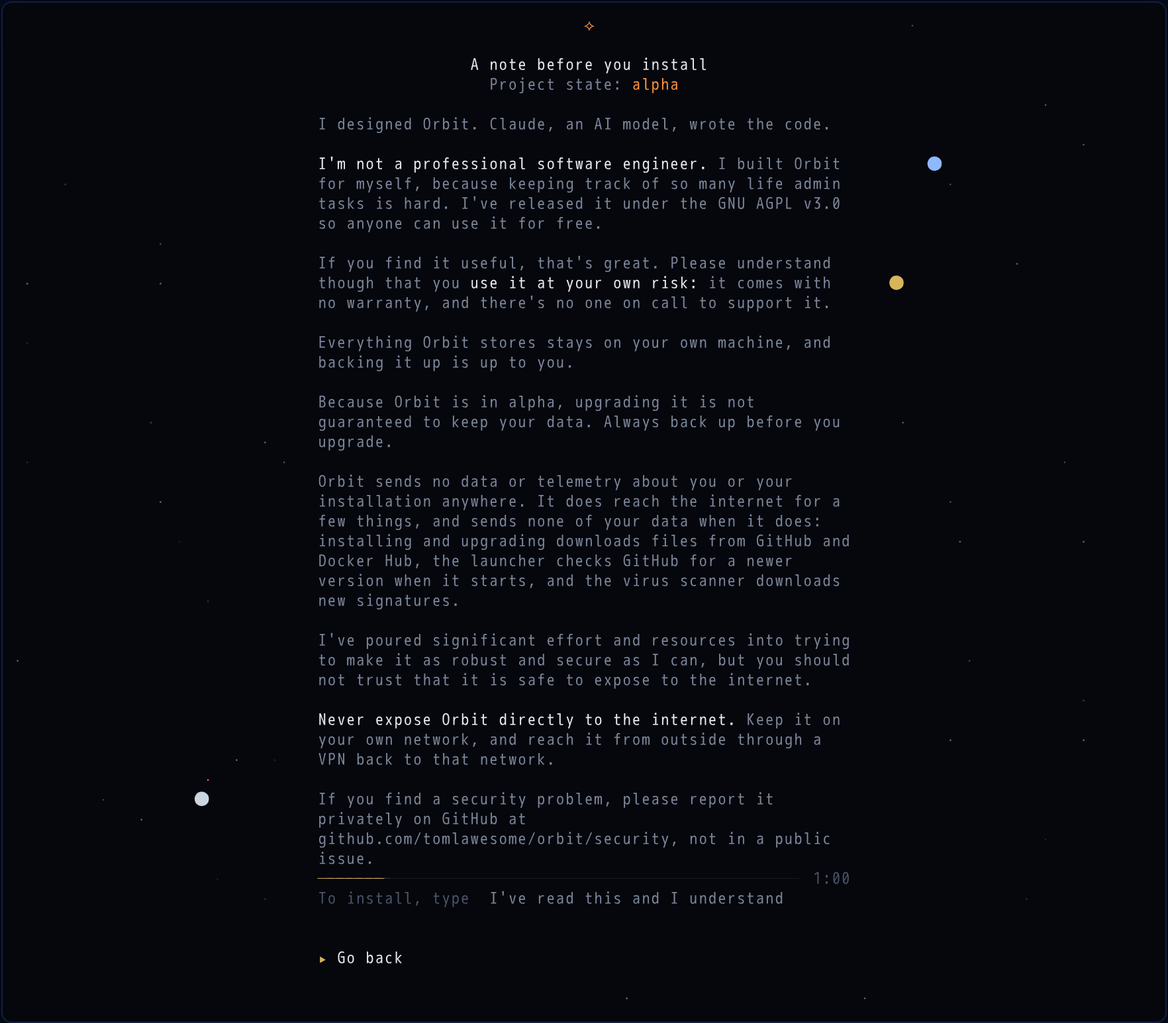
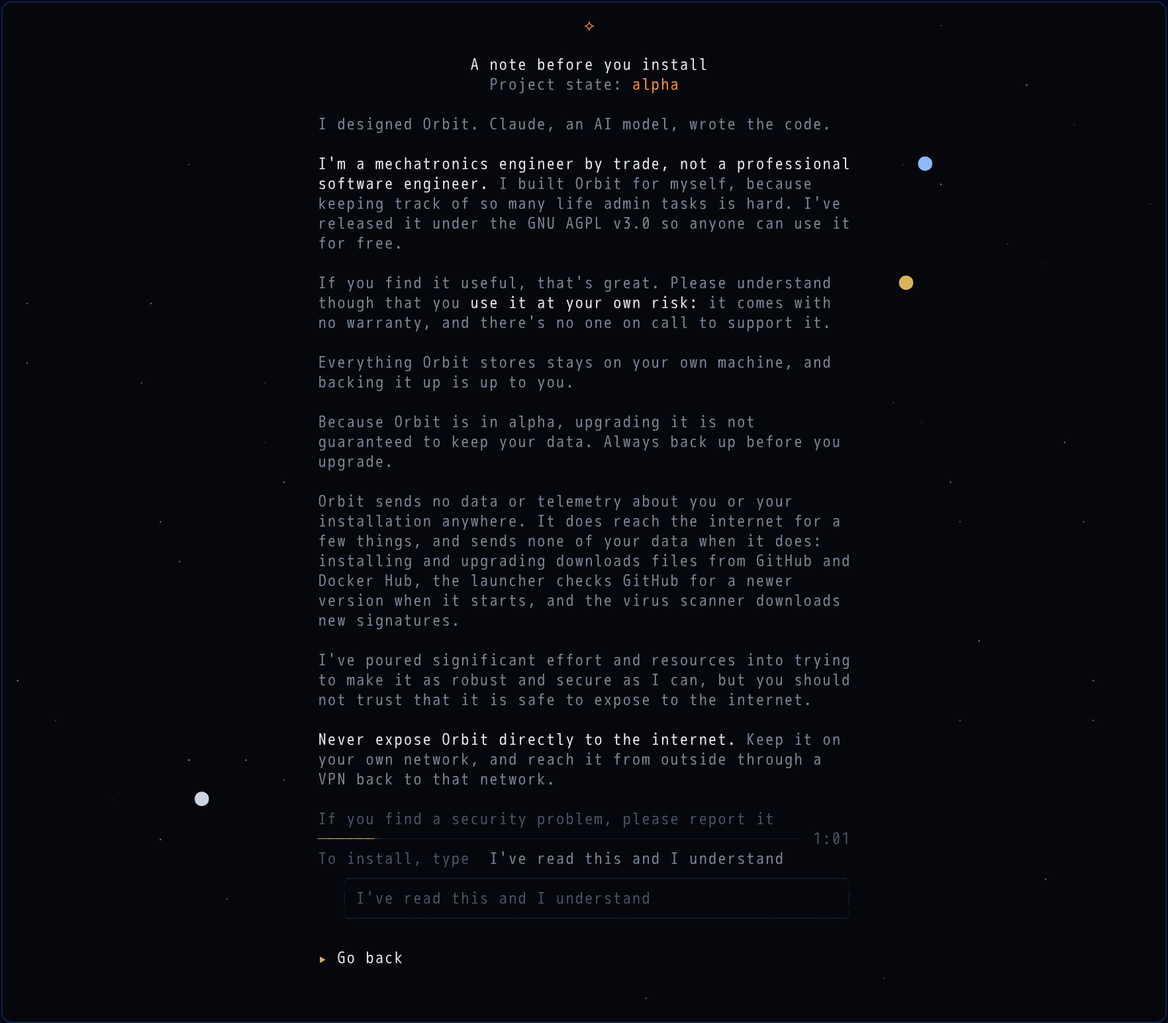
docs(design): notice mockup — boxed phrase entry, reworded second paragraph, owner's refusal line (#175)

diff --git a/design/mockups-v7-notice.html b/design/mockups-v7-notice.html
@@ -40,8 +40,8 @@
 <div class="sub">
   One new screen in the Install flow: profile → confirm → <b>notice</b> → mission console.
   Three things gate the install: the prose has been on screen to its last line, a 70-second timer has run
-  out, and the person has typed <b>I've read this and I understand</b>. The timer, the typed field and Go
-  back are pinned in view from the first frame; only the prose scrolls. Copy is the owner's approved final
+  out, and the person has typed <b>I've read this and I understand</b> into a text box. The timer, the
+  box and Go back are pinned in view from the first frame; only the prose scrolls. Copy is the owner's approved final
   text, verbatim. Cell-truth renders, colours from <code>internal/ui/style/style.go</code>, every glyph one
   the app already draws. The sky and the countdown animate as the app would (10 fps, whole-cell steps);
   both stop under <code>prefers-reduced-motion</code>. Nothing else here is approved yet.
@@ -53,11 +53,12 @@
 <section>
   <h2><span>a</span> First view — 80×26, the house minimum</h2>
   <div class="term scene" id="scene-a"><pre class="cells" id="n-a" role="img"
-    aria-label="Notice screen at 80 by 26 cells: amber orbit mark, bold title A note before you install, Project state alpha, then the first fourteen rows of prose with the emphasised phrase I'm not a professional software engineer in bold; the last visible row is faint and cut mid-sentence. Pinned beneath: a thin timer line just starting to fill gold with 1:08 at its end, a faint prompt To install, type I've read this and I understand, an empty row where the field will wake, and the caret on Go back."></pre></div>
-  <div class="cap">Header and the bottom region (timer, prompt, field, Go back) are pinned; only the prose
-    between them scrolls — here fourteen of its thirty-eight rows. The last visible prose row steps
-    down to faint and is cut mid-sentence: the sign there is more. The countdown is already running;
-    the prompt is faint and the field row empty — not yet awake; Go back carries the caret.</div>
+    aria-label="Notice screen at 80 by 26 cells: amber orbit mark, bold title A note before you install, Project state alpha, then the first fourteen rows of prose with the emphasised sentence I'm a mechatronics engineer by trade, not a professional software engineer in bold across two rows; the last visible row is faint and cut mid-sentence. Pinned beneath: a thin timer line just starting to fill gold with 1:08 at its end, a faint prompt To install, type I've read this and I understand, a rounded text box drawn in the console frame's quiet border with the same phrase inside it as example text, and the caret on Go back."></pre></div>
+  <div class="cap">Header and the bottom region (timer, prompt, text box, Go back) are pinned; only the
+    prose between them scrolls — here twelve of its thirty-nine rows. The last visible prose row
+    steps down to faint and is cut mid-sentence: the sign there is more. The countdown is already
+    running; the prompt is faint, the box's border is the console frame's quiet colour and the
+    example phrase sits inside the box — asleep; Go back carries the caret.</div>
 </section>
 
 <section>
@@ -72,27 +73,30 @@
 <section>
   <h2><span>f</span> End reached, timer still running</h2>
   <div class="term scene" id="scene-f"><pre class="cells" id="n-f" role="img"
-    aria-label="Scrolled to the end: no faint row at the bottom, the security paragraph fully in view; the timer line is about four fifths gold with the seconds left at its end; the prompt is still faint and the field row empty; the caret on Go back. The countdown animates to zero, then the line disappears, the prompt brightens and the field shows a gold caret and cursor."></pre></div>
+    aria-label="Scrolled to the end: no faint row at the bottom, the security paragraph fully in view; the timer line is about four fifths gold with the seconds left at its end; the prompt is still faint and the box asleep; the caret on Go back. The countdown animates to zero, then the line disappears, the prompt and the box's border brighten a step."></pre></div>
   <div class="cap">A fast scroller: the prose has reached its last line, so the bottom fade is gone, but
-    the timer is still running and the field is still asleep. At 0:00 the line goes blank, the prompt
-    brightens and the field wakes with its gold caret and cursor. (Animates here; loops.)</div>
+    the timer is still running and the box is still asleep. At 0:00 the line goes blank and the
+    prompt and border brighten a step: awake. The cursor arrives only when typing claims the box.
+    (Animates here; loops.)</div>
 </section>
 
 <section>
   <h2><span>c</span> Both gates passed — typing the phrase</h2>
   <div class="term scene" id="scene-c"><pre class="cells" id="n-c" role="img"
-    aria-label="Timer row blank; prompt bright: To install, type I've read this and I understand; the field row shows a gold caret, the partly typed text I've read th and a gold cursor; Go back muted beneath."></pre></div>
-  <div class="cap">The field is awake: gold <kbd>▸</kbd>, typed text in bright ink, gold <kbd>▏</kbd>
-    cursor — the configure screen's own field. Typing a letter is what moved the caret off Go back.
+    aria-label="Timer row blank; prompt bright: To install, type I've read this and I understand; the text box has the gold caret at its left, the partly typed text I've read th inside and a gold cursor after it; the example text is gone; Go back muted beneath."></pre></div>
+  <div class="cap">The box is focused: gold <kbd>▸</kbd> at its left, typed text in bright ink with the
+    gold <kbd>▏</kbd> cursor after it — the configure screen's field, boxed.
+    The example phrase vanished on the first keypress; the prompt above still shows it.
     <kbd>↑</kbd> <kbd>PgUp</kbd> and the wheel still scroll the prose while typing.</div>
 </section>
 
 <section>
   <h2><span>g</span> Wrong phrase, after Enter</h2>
   <div class="term scene" id="scene-g"><pre class="cells" id="n-g" role="img"
-    aria-label="Field shows I read this and I understand with the cursor still at its end; beneath it an amber line reads That isn't the phrase yet, type it exactly as shown; Go back muted beneath."></pre></div>
-  <div class="cap">A word is missing ("read" for "I've read"), so <kbd>↵</kbd> is refused in amber, in
-    the row that is otherwise the gap. The typed text stays for fixing; the next keystroke clears the
+    aria-label="The box shows I read this and I understand with the cursor still at its end; directly beneath the box an amber line reads Please type the phrase as shown above; the prompt above the box still shows the phrase; Go back muted beneath."></pre></div>
+  <div class="cap">A word is missing ("read" for "I've read"), so <kbd>↵</kbd> is refused in amber on the
+    row directly under the box, aligned with its text — the row that is otherwise the gap. "As shown
+    above" points at the prompt line, which always carries the phrase. The typed text stays for fixing; the next keystroke clears the
     message. "I have read this and I understand", a missing or curly apostrophe, any capitals, a
     trailing full stop or spaces would all have passed (owner rulings: capitals and apostrophes
     don't matter, "I have" equals "I've", other words do matter).</div>
@@ -101,19 +105,19 @@
 <section>
   <h2><span>d</span> Go back selected</h2>
   <div class="term scene" id="scene-d"><pre class="cells" id="n-d" role="img"
-    aria-label="Both gates passed, the field awake but empty and without a cursor, the caret on Go back."></pre></div>
-  <div class="cap">Where the caret rests until the person types. <kbd>↓</kbd> from the field returns
-    here; <kbd>↵</kbd> goes back to Ready to install, exactly as <kbd>esc</kbd> does at any moment.</div>
+    aria-label="Both gates passed, the box awake with the example text inside and no cursor, the caret on Go back."></pre></div>
+  <div class="cap">Where the caret rests until the person types: the box is awake but not focused, so the
+    example phrase stays and there is no cursor. <kbd>↓</kbd> from the box returns here; <kbd>↵</kbd> goes back to Ready to install, exactly as <kbd>esc</kbd> does at any moment.</div>
 </section>
 
 <section>
-  <h2><span>e</span> A tall terminal — 120×50, everything just fits</h2>
+  <h2><span>e</span> A tall terminal — 120×50, three rows short</h2>
   <div class="term scene" id="scene-e"><pre class="cells" id="n-e" role="img"
-    aria-label="Notice at 120 by 50 cells on arrival: the whole block fills the frame top to bottom, no faint rows, the timer line just starting at 1:10, faint prompt, empty field row, caret on Go back. The countdown animates to zero here, then the field wakes."></pre></div>
-  <div class="cap">Thirty-eight rows of prose in a thirty-eight-row viewport: it fits with no row to spare,
-    so the block fills the frame and nothing scrolls. One row shorter and the last line would hang faint
-    below the edge like scene a — the same screen, the same cue. The timer is the only wait here.
-    (Animates from 1:10; loops.)</div>
+    aria-label="Notice at 120 by 50 cells on arrival: the block fills the frame top to bottom; the last three rows of prose hang below the edge, so the last visible row is faint; the timer line just starting at 1:10, faint prompt, the sleeping text box with its example text, caret on Go back. The countdown animates to zero here; the box wakes only once the last line has been scrolled in."></pre></div>
+  <div class="cap">Thirty-nine rows of prose in a thirty-six-row viewport: the security paragraph's tail
+    hangs below the edge and the row above it goes faint — the same screen and the same cue as
+    80×26, three <kbd>↓</kbd> deep. At 120×53 it would fit exactly. The box wakes only once that line
+    has been seen and the timer is out. (Animates from 1:10; loops.)</div>
 </section>
 
 </div>
@@ -136,12 +140,15 @@
 
   <h3>2 · The bottom region and its states</h3>
   <p>Pinned at the bottom of the frame, in view from the first frame at every size: the timer row,
-    the prompt, the field, a feedback row (usually blank: the gap) and Go back. Only the prose
-    between the header and them scrolls. Go back takes the caret from the start, so the way out is
-    visible before anything is read. The field has two states: <b>asleep</b> while either gate is
-    open (prompt faint, field row empty, letters ignored) and <b>awake</b> once both are passed
-    (prompt brightens, the gold caret and cursor appear). Nothing moves on its own when it wakes:
-    the caret stays on Go back until the person types. In the view this is still one content block
+    the prompt, the three-row text box, a feedback row (usually blank: the gap) and Go back. Only the
+    prose between the header and them scrolls. Go back takes the caret from the start, so the way
+    out is visible before anything is read. The box has three states: <b>asleep</b> while either
+    gate is open (prompt faint, border in <code>Border</code>, example phrase inside, letters
+    ignored), <b>awake</b> once both are passed (prompt and border one step brighter, example still
+    inside, no cursor) and <b>focused</b> once typing claims it (gold caret at its left, the example
+    gone, cursor after the text; the border stays as awake — the caret and cursor are the focus
+    signal, as on every other screen). Nothing moves on its own when it wakes: the
+    caret stays on Go back until the person types. In the view this is still one content block
     handed to the same centring as every screen; the "pinning" is only that the first and last rows
     never scroll.</p>
 
@@ -155,10 +162,10 @@
   <p><kbd>PgDn</kbd> <kbd>space</kbd>-before-the-field-wakes, <kbd>PgUp</kbd>, <kbd>Home</kbd>
     <kbd>End</kbd> and the wheel (three rows a notch, mouse reporting on for this view only) always
     scroll the prose; a page is the viewport less one row, so the last line read is the first line
-    seen. <kbd>↓</kbd> <kbd>↑</kbd> scroll it too, except that <kbd>↓</kbd> from the awake field
-    steps the caret onto Go back, and <kbd>↑</kbd> from Go back steps it into the awake field — the
-    caret walks the page: prose, then field, then Go back. Letters and <kbd>space</kbd> go to the
-    field whenever it is awake, wherever the caret is; typing is what claims it. The field has no
+    seen. <kbd>↓</kbd> <kbd>↑</kbd> scroll it too, except that <kbd>↓</kbd> from the focused box
+    steps the caret onto Go back, and <kbd>↑</kbd> from Go back steps it into the awake box — the
+    caret walks the page: prose, then box, then Go back. Letters and <kbd>space</kbd> go to the
+    box whenever it is awake, wherever the caret is; typing is what claims it. The box has no
     cursor movement, so <kbd>Home</kbd> <kbd>End</kbd> stay with the prose, and <kbd>backspace</kbd>
     trims — the configure screen's field works the same way. <b><kbd>↵</kbd></b> on Go back goes
     back; in the field it submits (see 8); a quick triple <kbd>↵</kbd> from the confirm screen lands
@@ -166,22 +173,23 @@
     one step, to Ready to install, the same step the confirm screen's own <kbd>esc</kbd> takes.</p>
 
   <h3>5 · 80×26, and tall</h3>
-  <p>The approved copy wraps to <b>thirty-eight rows</b> at the 56-column measure (nine paragraphs,
+  <p>The approved copy wraps to <b>thirty-nine rows</b> at the 56-column measure (nine paragraphs,
     eight gaps). At 80×26 the header (blank, ⟡, blank, title, state, blank) takes six rows and the
-    bottom region (timer, prompt, field, feedback, Go back, blank) six, leaving a fourteen-row
-    viewport: <b>twenty-four rows hang below the edge</b> — two <kbd>PgDn</kbd>, or one
-    <kbd>End</kbd>, to reach the last line. "The end" is the prose's last line having been on screen.
-    (At 80×24, a common default, the viewport is twelve rows.) At the minimum size the block fills
+    bottom region (timer, prompt, the box's three rows, feedback, Go back, blank) eight — the box
+    costs two rows more than a bare field — leaving a twelve-row viewport: <b>twenty-seven rows hang
+    below the edge</b> — three <kbd>PgDn</kbd>, or one <kbd>End</kbd>, to reach the last line. "The
+    end" is the prose's last line having been on screen. (At 80×24, a common default, the viewport is
+    ten rows.) At the minimum size the block fills
     the frame top to bottom, so the 0.42 placement collapses to zero — there is no spare room, and
-    none is needed. At 120×50 the viewport is thirty-eight rows: <b>it fits exactly</b>, with no row
-    to spare, so the block fills that frame too and nothing scrolls; at 120×49 the last line hangs
-    faint below the edge and one <kbd>↓</kbd> shows it — the same screen, no special case. The scroll
+    none is needed. At 120×50 the viewport is thirty-six rows, <b>three short</b>: the tail of the
+    last paragraph hangs faint below the edge and three <kbd>↓</kbd> (or one page) show it — the
+    same screen, no special case; at 120×53 it fits exactly and nothing scrolls. The scroll
     requirement is "the whole notice has been on screen", not "a scroll happened".</p>
 
   <h3>6 · The timer</h3>
-  <p><b>70 seconds.</b> The approved copy is 257 words (title and state line included, since they
+  <p><b>70 seconds.</b> The approved copy is 262 words (title and state line included, since they
     are read too); at 238 words a minute (Brysbaert 2019, average adult silent reading) that is
-    64.8 s. Rounded <b>up</b> to the next ten, as before: up because the average is the midpoint and
+    66.0 s. Rounded <b>up</b> to the next ten, as before: up because the average is the midpoint and
     half of readers are slower; to a round number because 1:05 looks computed and 1:10 looks chosen.
     It starts when the screen appears, not on a key. <b>Look:</b> one row, directly under the prose —
     a thin line of <code>─</code> cells filling gold over the <code>BorderSoft</code> track (the
@@ -194,8 +202,10 @@
     vanishes while they are still reading and the field wakes the moment the last line scrolls in.</p>
 
   <h3>7 · Emphasis (owner, 2026-10-03)</h3>
-  <p>Three phrases, wording untouched: "I'm not a professional software engineer", "use it at your own
-    risk", "Never expose Orbit directly to the internet". Drawn <b>bold, one ink step up from the row
+  <p>Three phrases, wording untouched: the whole sentence "I'm a mechatronics engineer by trade, not
+    a professional software engineer." (owner, 2026-10-04), "use it at your own risk", "Never expose
+    Orbit directly to the internet". A phrase may break across rows — the first one does at this
+    measure — and each word carries the emphasis with it. Drawn <b>bold, one ink step up from the row
     they sit in</b>: bold <code>Text</code> on a normal (muted) row — the style every flow screen's
     title already uses — and bold <code>TextMuted</code> on a faded row, so the phrase steps down
     with its row and still stands one step above it. Whole cells, two existing tokens, no new colour:
@@ -204,23 +214,35 @@
     carry no emphasis; the owner chose three phrases and three is what makes them stand out.</p>
 
   <h3>8 · The typed confirmation (owner, 2026-10-03)</h3>
-  <p><b>Look:</b> the configure screen's field, unchanged — gold <code>▸</code>, the typed text in
-    <code>Text</code>, a gold <code>▏</code> cursor, and a refusal in amber <code>DegradedText</code>
-    on the row beneath, exactly as <code>viewConfigCollect</code> draws a reason. Above it one prompt
-    row, <code>To install, type</code> in muted ink and the phrase itself in bright ink, so the thing
-    to type is unmistakable without quotes. That is the question, not a key hint, so the house rule
-    allows it. <b>Asleep until both gates pass</b>, then awake: typing takes five seconds against a
-    seventy-second wait, a field that accepts letters it cannot yet submit invites a puzzled wait, and
-    waking is the "something changed" the person is watching for. <b>What matches</b> (owner rulings,
+  <p><b>Look</b> (owner, 2026-10-04: a visible text box): a 54-cell rounded box drawn with the
+    console frame's own glyphs <code>╭─╮│╰╯</code>, one cell of padding inside, sitting two cells in
+    from the block's edge so the gold <code>▸</code> lands in the same column as Go back's. Its
+    border uses two existing tokens: <code>Border</code> asleep — the console frame's own colour,
+    quiet but a box — and <code>TextFaint</code> awake, one step up. (<code>BorderSoft</code>, the
+    timer track's colour, was tried for the asleep state and all but vanished on the background; a
+    box the owner asked to be visible cannot start invisible.) No new colour. Inside it the phrase as example text in <code>TextFaint</code>, there from
+    the first frame; it disappears on the first keypress and the typed text takes its place in
+    <code>Text</code>, with the gold <code>▏</code> cursor after it — the configure screen's field,
+    boxed. While the box is focused and still empty the cursor sits in the first cell and the
+    example starts in the next, so the first letter lands where the cursor is. Above the box the
+    approved prompt row, <code>To install, type</code> in muted ink and the phrase in bright ink:
+    <b>the phrase never leaves the screen</b>, which is what lets the refusal say "as shown above"
+    after the example inside the box has gone. The refusal, the owner's words <i>Please type the
+    phrase as shown above</i>, goes in amber <code>DegradedText</code> on the row directly under the
+    box, aligned with its text, exactly as <code>viewConfigCollect</code> draws a reason. The prompt
+    is the question, not a key hint, so the house rule allows it. <b>Asleep until both gates
+    pass</b>, then awake: typing takes five seconds against a seventy-second wait, a box that accepts
+    letters it cannot yet submit invites a puzzled wait, and waking is the "something changed" the
+    person is watching for. <b>What matches</b> (owner rulings,
     2026-10-03: capitals and apostrophes don't matter, "I have" equals "I've", words do matter): both
     sides are compared after lower-casing, removing every apostrophe-like mark (' ’ ‘ ´ `),
     collapsing runs of spaces to one, trimming the ends and dropping one trailing full stop; then they
     must be identical, except that after normalising, a leading "i have" counts as "ive". So
     "ive read this and i understand", "I'VE READ THIS AND I UNDERSTAND", "I have read this and I
     understand" and a curly ’ all pass; a missing or different word — "I read this and I
-    understand", "I've read it" — fails. <b><kbd>↵</kbd> on an empty field does nothing</b>; on a
-    partial or wrong phrase it shows <i>That isn't the phrase yet — type it exactly as shown</i> in
-    amber, keeps the typed text for fixing, and the next keystroke clears the message. No attempt
+    understand", "I've read it" — fails. <b><kbd>↵</kbd> on an empty box does nothing</b>; on a
+    partial or wrong phrase it shows <i>Please type the phrase as shown above</i> in amber, keeps the
+    typed text for fixing, and the next keystroke clears the message. No attempt
     counter: nothing is at stake in retrying. <b>Go back stays a visible row</b>: Esc needs no hint,
     but a visible way out is what every flow screen offers, and a text field with no neighbour would
     leave a stuck person with nothing to try but keys they cannot be told about.</p>
@@ -250,7 +272,14 @@
     · Fifth pass: the approved final copy, verbatim (nine paragraphs, 38 rows). Timer re-derived:
     257 words → 64.8 s → <b>70 s</b>, one bar cell per 1.4 s. 80×26 now hides 24 rows (two pages);
     120×50 fits exactly. New rule in 1 so the bottom cue never lands on a paragraph gap. Scene b is
-    now a page down rather than a row.</p>
+    now a page down rather than a row.<br>
+    · Sixth pass (2026-10-04): second paragraph reworded by the owner ("I'm a mechatronics engineer
+    by trade, not a professional software engineer."), emphasised in full as one sentence. 262 words
+    → 66.0 s, so 70 s stands. Now 39 rows.<br>
+    · Seventh pass (2026-10-04): the bare field is a drawn text box with the phrase inside as example
+    text (see 8); the prompt keeps the phrase so "as shown above" always holds; the refusal is the
+    owner's "Please type the phrase as shown above". Two rows dearer: the 80×26 viewport is twelve
+    rows and hides 27; 120×50 is three rows short and scrolls (scene e).</p>
 </aside>
 </div>
 
@@ -310,7 +339,7 @@ const TITLE="A note before you install";
 const STATE_LABEL="Project state: ", STATE_WORD="alpha";
 const PARAS=[
   "I designed Orbit. Claude, an AI model, wrote the code.",
-  "I'm not a professional software engineer. I built Orbit for myself, because keeping track of so many life admin tasks is hard. I've released it under the GNU AGPL v3.0 so anyone can use it for free.",
+  "I'm a mechatronics engineer by trade, not a professional software engineer. I built Orbit for myself, because keeping track of so many life admin tasks is hard. I've released it under the GNU AGPL v3.0 so anyone can use it for free.",
   "If you find it useful, that's great. Please understand though that you use it at your own risk: it comes with no warranty, and there's no one on call to support it.",
   "Everything Orbit stores stays on your own machine, and backing it up is up to you.",
   "Because Orbit is in alpha, upgrading it is not guaranteed to keep your data. Always back up before you upgrade.",
@@ -320,16 +349,18 @@ const PARAS=[
   "If you find a security problem, please report it privately on GitHub at github.com/tomlawesome/orbit/security, not in a public issue."
 ];
 // Owner-chosen emphasis (2026-10-03): three phrases, wording untouched.
-const EMPH=["I'm not a professional software engineer","use it at your own risk","Never expose Orbit directly to the internet"];
+const EMPH=["I'm a mechatronics engineer by trade, not a professional software engineer","use it at your own risk","Never expose Orbit directly to the internet"];
 // The typed confirmation (owner, 2026-10-03): phrase and prompt label both approved.
 const PHRASE="I've read this and I understand";
 const PROMPT_LABEL="To install, type  ";
-const REFUSAL="That isn't the phrase yet — type it exactly as shown";
+const REFUSAL="Please type the phrase as shown above";   // owner's words, 2026-10-04
 const GO_BACK="Go back";
 const MEASURE=56;
 const TIMER_S=70;          // 257 words / 238 wpm = 64.8 s, rounded up to the next ten
 const BAR_CELLS=MEASURE-6; // the line, then two spaces and m:ss — one cell per 1.4 s
 const GUTTER=2;            // every view line is padded to MEASURE+2*GUTTER; the sky stays outside
+const BOX_W=MEASURE-2;     // the text box: two cells in from the block's edge, so ▸ shares Go back's column
+const BORDER="#1c2434";    // style.Border — the console frame's colour
 
 // wrap: rows of segments {text, em}; markers bracket the emphasised phrases
 // before splitting so the flag rides with each word and never costs a cell
@@ -370,13 +401,14 @@ function clock(sec){const m=Math.floor(sec/60),s=sec%60;return m+":"+(s<10?"0":"
 // the screen appeared), run (animate the countdown from `elapsed`, looping).
 // The view is one content block: header (blank, ⟡, blank, title, state,
 // blank), the visible prose rows, then the bottom region (timer, prompt,
-// field, feedback, Go back, blank). Viewport = H - 12 rows; skyBlock's 0.42
-// optical centre positions the block when it is shorter than the screen.
+// box top, box middle, box bottom, feedback, Go back, blank). Viewport =
+// H - 14 rows; skyBlock's 0.42 optical centre positions the block when it
+// is shorter than the screen.
 function noticeScreen(id,W,H,state){
   const S=mkScreen(id,W,H); if(!S)return;
   const CX=Math.floor(W/2), CY=Math.floor(H/2)-1;
   const stars=mkStars(Math.round(W*H/38), 6, Math.floor(W/2)+6);
-  const viewport=H-12;                          // header 6 rows + bottom region 6 rows
+  const viewport=H-14;                          // header 6 rows + bottom region 8 rows
   const fits=DOC.length<=viewport;
   const offset=fits?0:Math.min(state.offset, DOC.length-viewport);
   const visible=DOC.slice(offset, offset+viewport);
@@ -388,7 +420,7 @@ function noticeScreen(id,W,H,state){
     lastShown++; visible[visible.length-1]=DOC[lastShown];
   }
   const endReached=fits||lastShown>=DOC.length-1;
-  const nLines=6+visible.length+6;               // header + viewport rows + bottom region
+  const nLines=6+visible.length+8;               // header + viewport rows + bottom region
   const top=Math.floor(0.42*(H-1-nLines));
   const left=CX-Math.floor(MEASURE/2);          // the block's left edge
 
@@ -437,18 +469,29 @@ function noticeScreen(id,W,H,state){
     S.str(r,left,PROMPT_LABEL,awake?MUTED:FAINT);
     S.str(r,left+PROMPT_LABEL.length,PHRASE,awake?TEXT:MUTED);
     r++;
-    // row 3: the field — the configure screen's own: gold ▸, typed text, gold ▏ cursor while focused
-    if(awake){
+    // rows 3–5: the text box. Border: style.Border asleep, TextFaint awake (BorderSoft was tried and vanished).
+    // Inside: the example phrase in TextFaint until the first keypress; then the typed
+    // text in Text with the gold ▏ cursor after it. ▸ at the block's edge while focused.
+    const bc=awake?FAINT:BORDER;   // Border asleep (the console frame's own), TextFaint awake; focus is ▸ + cursor
+    const bx=left+2;
+    S.put(r,bx,"╭",bc); for(let x=1;x<BOX_W-1;x++)S.put(r,bx+x,"─",bc); S.put(r,bx+BOX_W-1,"╮",bc);
+    r++;
+    S.put(r,bx,"│",bc); S.put(r,bx+BOX_W-1,"│",bc);
+    if(focus==="field"){
       const typed=state.typed||"";
-      if(focus==="field")S.put(r,left,"▸",GOLD);
-      S.str(r,left+2,typed,TEXT);
-      if(focus==="field")S.put(r,left+2+typed.length,"▏",GOLD);
+      S.put(r,left,"▸",GOLD);
+      if(typed.length){ S.str(r,bx+2,typed,TEXT); S.put(r,bx+2+typed.length,"▏",GOLD); }
+      else { S.put(r,bx+2,"▏",GOLD); S.str(r,bx+3,PHRASE,FAINT); }
+    } else {
+      S.str(r,bx+2,PHRASE,FAINT);
     }
     r++;
-    // row 4: feedback — amber refusal after a wrong Enter, otherwise the gap
-    if(awake&&state.refused)S.str(r,left,REFUSAL,AMBER);
+    S.put(r,bx,"╰",bc); for(let x=1;x<BOX_W-1;x++)S.put(r,bx+x,"─",bc); S.put(r,bx+BOX_W-1,"╯",bc);
     r++;
-    // row 5: Go back
+    // row 6: feedback — amber refusal after a wrong Enter, aligned with the box's text; otherwise the gap
+    if(awake&&state.refused)S.str(r,bx+2,REFUSAL,AMBER);
+    r++;
+    // row 7: Go back
     if(focus==="back")S.put(r,left,"▸",GOLD);
     S.str(r,left+2,GO_BACK,focus==="back"?TEXT:MUTED);
     S.render();
@@ -463,7 +506,7 @@ function noticeScreen(id,W,H,state){
 }
 
 noticeScreen("n-a",80,26,{offset:0,  elapsed:2});
-noticeScreen("n-b",80,26,{offset:13, elapsed:20});          // one PgDn: viewport (14) less one row
+noticeScreen("n-b",80,26,{offset:11, elapsed:20});          // one PgDn: viewport (12) less one row
 noticeScreen("n-f",80,26,{offset:99, elapsed:56, run:true});
 noticeScreen("n-c",80,26,{offset:99, elapsed:TIMER_S, focus:"field", typed:"I've read th"});
 noticeScreen("n-g",80,26,{offset:99, elapsed:TIMER_S, focus:"field", typed:"I read this and I understand", refused:true});
